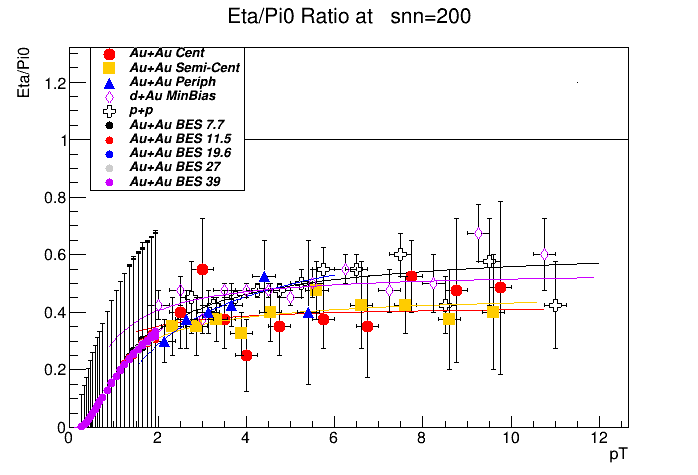
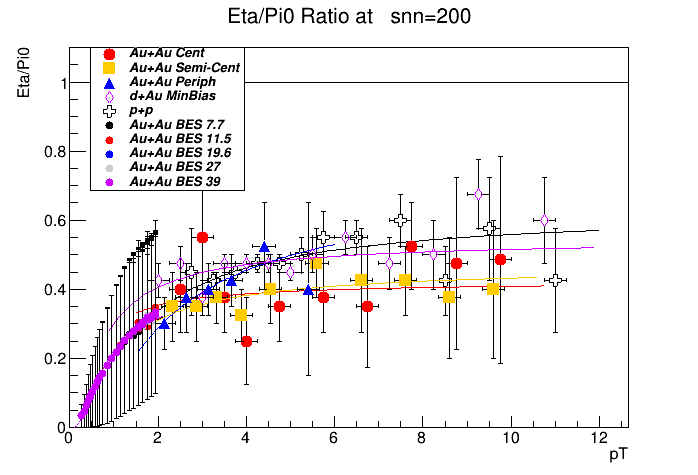
Eta now represents average of all interpolations of graph

diff --git a/EtaVsPi0.cpp b/EtaVsPi0.cpp
@@ -207,7 +207,7 @@ void EtaVsPi0(){
   rsize=r;
   for(r=0;r<rsize;r++){
       BESDataInclEta.push_back(DataBES());
-      BESDataInclEta[r].evp=Eta[r].pTSpec/pi0[r].pTSpec;//BUG not matched to pt bins!!
+      BESDataInclEta[r].evp=Eta[r].pTSpec/pi0[r].pTSpec;
       BESDataInclEta[r].pt=.5*(Eta[r].pTl+Eta[r].pTh);
       BESDataInclEta[r].errR=0;//TODO
       BESDataInclEta[r].errPt=0;//TODO
@@ -287,7 +287,7 @@ void EtaVsPi0(){
   x7[0]=0;
   x7[1]=11.5;
   y7[0]=0;
-  y7[1]=1.2;
+  y7[1]=1;
   TGraph* gr7=new TGraph(n6,x7,y7);
     gr7->SetTitle("Eta/Pi0 Ratio at   snn=200; pT; Eta/Pi0");
     gr7->SetMarkerStyle(27);
@@ -532,6 +532,53 @@ void EtaVsPi0(){
   gr12->GetFunction("expo2")->SetLineWidth(1);
   cout<<"==================================================================="<<endl;
   c1->SaveAs("EtaPi0_vs_pt.png");
+  TCanvas *c2 = new TCanvas("c2","results",200,10,700,500);
+
+  TLegend* legend2=new TLegend(.13,.6,.35,.9);
+    legend2->SetTextFont(72);
+    legend2->SetTextSize(.03);
+    legend2->SetFillColor(0);
+
+  x7[0]=0;
+  x7[1]=2.1;
+  y7[0]=0;
+  y7[1]=0.59;
+  TGraph* gr13=new TGraph(n6,x7,y7);
+    gr13->SetTitle("Eta/Pi0 Ratio at   snn=200; pT; Eta/Pi0");
+    gr13->SetMarkerStyle(27);
+    gr13->SetMarkerSize(0);
+    gr13->SetMarkerColor(kBlack);
+    gr13->Draw("Ap");
+
+  gr8->SetMarkerStyle(22);
+  gr8->SetMarkerSize(1);
+  gr8->SetMarkerColor(kRed);
+  gr9->SetMarkerStyle(27);
+  gr9->SetMarkerSize(1);
+  gr9->SetMarkerColor(kOrange);
+  gr10->SetMarkerStyle(28);
+  gr10->SetMarkerSize(1);
+  gr10->SetMarkerColor(kBlue);
+  gr11->SetMarkerStyle(20);
+  gr11->SetMarkerSize(1);
+  gr11->SetMarkerColor(kViolet);
+  gr12->SetMarkerStyle(21);
+  gr12->SetMarkerSize(1);
+  gr12->SetMarkerColor(kBlack);
+
+  gr8->Draw("P");
+  gr9->Draw("P");
+  gr10->Draw("P");
+  gr11->Draw("P");
+  gr12->Draw("P");
+  legend2->AddEntry(gr8,"Au+Au BES 7.7","p");
+  legend2->AddEntry(gr9,"Au+Au BES 11.5","p");
+  legend2->AddEntry(gr10,"Au+Au BES 19.6","p");
+  legend2->AddEntry(gr11,"Au+Au BES 27","p");
+  legend2->AddEntry(gr12,"Au+Au BES 39","p");
+  legend2->Draw();
+  c2->Update();
+  c2->SaveAs("EtaPi0_vs_pt_r.png");
   cout<<"complete";
   return;
 }

diff --git a/BESData_InclEta.cpp b/BESData_InclEta.cpp
@@ -175,6 +175,9 @@ void EtaBuilder(const vector<vector<Bin>>& vect1, vector<vector<Bin>>& Eta){
   double h;
   double a = -.455275;
   double b = 1.27055;
+  vector<double> p0{-.85783,-.756435,-.331386,-.602905,-.455275};
+  vector<double> p1{.370055, .825780, 1.83113, .598540, 1.27055};
+  vector<double> s0{0,0,0,0,0};
   double scale;
   double parameter;
   Bin pi0;
@@ -201,8 +204,11 @@ void EtaBuilder(const vector<vector<Bin>>& vect1, vector<vector<Bin>>& Eta){
       //  break;
       //}
       pT=vect1[i][j].Dat.pTl;
-      parameter= a-(b/pT);
-      scale=exp(parameter);
+      for (int k=0;k<5;k++){
+        parameter= p0[k]-(p1[k]/pT);
+        s0[k]=exp(parameter);
+      }
+      scale=(s0[0]+s0[1]+s0[2]+s0[3]+s0[4])/5;
       cout<<"Scale factor: "<<scale<<endl;
       n.Dat.pTl=vect1[i][j].Dat.pTl;
       n.Dat.pTh=vect1[i][j].Dat.pTh;
